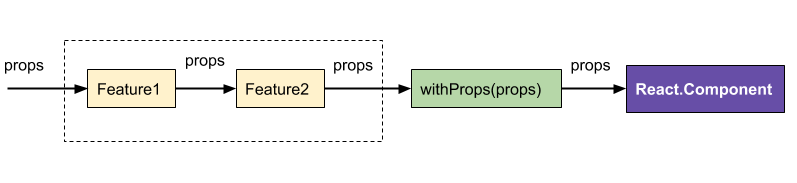
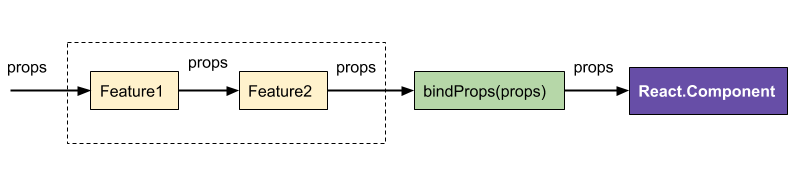
update docs

diff --git a/docs/feature.md b/docs/feature.md
@@ -1,54 +1,59 @@
-### Little theory. What is component feature?
+## Little theory. What is component feature?
 
 > It is an intentional distinguishing characteristic of a component.
 
-Component feature - is the new component's functionality. And in most cases it depends and provide new props.
+Component feature - is the new component functionality. And in most cases it depends and provide new props.
 For example *HighliteFlags* feature for *<Button/>* component - add *success*, *alert* and *warning* bool props and depending on them provide specific styles.
+
+### The problem
+
 Usually all such features are developed and stored inside component and this is the reason for next problems:
 
-* Component's code become more and more complex. Even simple component can grow into complex component with large collection of available props.
+* Component code become more and more complex. Even simple component can grow into complex with large collection of available props.
 * Hard to develop new features and remove old or not used. To remove feature developer should find and remove large number of lines and then make sure that all other features work correctly.
-* Hard to find bugs and fix them. Sometimes there are hotfixes that usually push component become legacy.
-* A lot of *copy-paste* code. Especially a lot of duplication across component's *propTypes*.
-* Hard to share code. Only whole component could be shared with all implemented features. But sometimes needs to share only specific feature between applications or even between components.
+* Hard to find bugs and fix them. Sometimes there are hotfixes that usually push component to become legacy.
+* A lot of *copy-paste* code. Especially a lot of duplication across components *propTypes*.
+* Hard to share code. Only whole component could be shared with all implemented features. But sometimes needs to share only specific feature between components or even between applications.
 
-### Component lifecycle in the images
+#### Component life in the images
 
-* Component is simple and it's code is beautiful, simple and readable
+* Component is simple and it code is beautiful, simple and readable.
 
 <img src="https://raw.githubusercontent.com/tuchk4/forgekit/release/2.0/docs/images/component.png">
 
-* Developing new component's features
+* Developing new component features. Developing at this stage is like breathe the crystal clear air. Component is still virgin.
 
 <img src="https://raw.githubusercontent.com/tuchk4/forgekit/release/2.0/docs/images/component-with-features.png">
 
-* Component became complex and it's code is much harder and uglier than was before
+* Component became complex and it code is much harder and uglier than was before.
 
 <img src="https://raw.githubusercontent.com/tuchk4/forgekit/release/2.0/docs/images/component-with-added-features.png">
 
-* DEATH - bugs, legacy code, spaghetti :(
+* DEATH - bugs, legacy code, spaghetti :( Components look like virus or infection.
 
 <img src="https://raw.githubusercontent.com/tuchk4/forgekit/release/2.0/docs/images/component-became-complex.png">
 
-### Develop features separately
+### Solution: develop features separately
 
-Forgekit suggest to develop and store features separately from component. There are a lof of advantages:
+**Very need to rename *"Feature"* term at Forgekit context into more simple name that will not confuse.** If you have some ideas - please describe them at [new issue](https://github.com/tuchk4/forgekit/issues/new).
 
-* Responsibility. Each feature stored separated file (or module if speak in CommonJS context) and there is code that implements only specific functionality and provide props that are needed only for its functionality.
-* Sharable. Features could be shared between components or applications.
+Forgekit suggest to develop and store features separately from components. There are a lot of advantages:
+
+* Responsibility. Each feature stored at separated file (or module if speak in CommonJS context) and there is code that implements only specific functionality and provide its own *propsTypes*.
+* Sharable. Features could be shared between components or applications. And don't even depends on components library. It could work above it.
 * Tests. Easy to write tests because Feature is a pure function.
-* Refactoring. It is more simpler to remove feature's import than find and remove large number of related lines of code
+* Refactoring. It is more simpler to remove feature import than find and remove large number of related lines of code.
 * Refactoring. Old feature could be swapped with new features.
-* Optimization. Use only needed features.
-* Feature customization. Each feature could customized separately. This is much better that customize whole component.
+* Optimization. Use only needed features. Not used features will not be in the build.
+* Feature customization. Each feature could be customized separately. This is much better that customize whole component.
 
 
-### High-level and Low-level props
+### High-level and low-level props
 
 In most cases feature depends and provide new props.
 Props could be splitted into **low-level** and **high-level** props.
 
-From React documentation - [DOM Elements](https://facebook.github.io/react/docs/dom-elements.html):
+From React [DOM Elements](https://facebook.github.io/react/docs/dom-elements.html) documentation:
 
 > React implements a browser-independent DOM system for performance and cross-browser compatibility. We took the opportunity to clean up a few rough edges in browser DOM implementations.
 In React, all DOM properties and attributes (including event handlers) should be camelCased. For example, the HTML attribute tabindex corresponds to the attribute tabIndex in React. The exception is aria-* and data-* attributes, which should be lowercased.
@@ -80,7 +85,7 @@ Feature.defaultProps = {}
 
 ### Forgekit feature with lifecycle methods
 
-Forgekit feature could be defined as object with two attributes:
+Forgekit feature also could be defined as object with two attributes:
 
 * *props* - pure function to map props.
 * *hoc* - higher order component. Takes Component as argument and return higher order component.

diff --git a/docs/theme.md b/docs/theme.md
@@ -1,6 +1,6 @@
 ## Theme
 
-Allows to define theme structure for feature or component. Then it used for *classNames* or *style* calculating.
+Allows to define theme structure for feature or component. It is used for *classNames* or *style* calculating.
 Support custom themes provided by global CSS or inline styles and other libraries:
 
 * [CSS Modules](https://github.com/css-modules/css-modules)
@@ -13,23 +13,24 @@ Support custom themes provided by global CSS or inline styles and other librarie
 
 Simple styling manager for the React components.
 
-Theme structure is defined at *propTypes* and with default values defined at *defaultProps*.
+Theme structure is defined at *propTypes* and default values defined at *defaultProps*.
 So *theme* is the component prop.
 
-```theme
+```js
 <Component theme={theme} />
 ```
 
-**Why theme is important for feature?**
+**Why theme is important for features?**
 
-A lot of features usually provides some new UI elements for component. So - they should/may be customized.
+A lot of features usually provides new UI elements for component. So - they should/may be customized.
 
 ## Forgekit theme api
 
 Theme structure should be defined at the *propTypes*.
+
 Default theme values should be defined at *defaultProps*.
 
-All defined themes will be merged in the ForgedComponent.
+All defined themes are merged in the ForgedComponent.
 Each feature or component will receive only defined theme structure.
 
 ```js
@@ -56,13 +57,11 @@ expect(ForgedComponent.propTypes.theme).toEqual({
 });
 ```
 
-**What is the ThemeProp?**
+### What is the ThemeProp?
 
-It is same as *PropTypes.shape* but there is the static attribute that contains all defined attributes. Forgekit needs it for theme merging.
-*PropTypes.shape* cannot be used because it is a bound function and there are no access to defined shape attributes.
+*ThemeProp* is same as *PropTypes.shape* but with attribute that contains all defined keys. Forgekit needs it for theme merging.
 
-I have created  [feature request at React repository](https://github.com/facebook/react/issues/8310) to fill name attribute for all *propTypes*.
-If it is approved - *ThemeProp* could be removed.
+*PropTypes.shape* cannot be used directly because it is a bound function and there are no access to defined shape attributes.
 
 ```js
 const ThemeProp = theme => {
@@ -73,11 +72,14 @@ const ThemeProp = theme => {
 }
 ```
 
-## className Example
+I have created  [React feature request](https://github.com/facebook/react/issues/8310) to fill name attribute for all *propTypes*.
+If it is approved - *ThemeProp* will be removed.
+
+## Theme className example
 
 For better experience suggest to use [classnames](https://www.npmjs.com/package/classnames) library.
 
-* Define component's theme structure
+* Define component theme structure
 
 ```js
 import { ThemeProp } from 'forgekit';
@@ -106,7 +108,7 @@ Button.defaultProps = {
 };
 ```
 
-* Define feature's theme structure
+* Define feature theme structure
 
 ```js
 import styles from './alert.css';
@@ -147,7 +149,7 @@ const MaterialButton = fogrkit(Alert)(Button, 'MaterialButton', {
 });
 ```
 
-* Forge and use theme prop
+* Or Forge and use theme prop
 
 ```js
 import materialButtonStyles from './material-button.css';
@@ -163,7 +165,7 @@ const theme = {
 ```
 
 
-## styles Example
+## Theme styles example
 
 It is same as example with classNames expect:
 

diff --git a/docs/api.md b/docs/api.md
@@ -1,34 +1,40 @@
 ## Forgekit api
 
-<a href="./feature.md">Features and feature api documentation</a>
+In general it looks like props middleware.
+But each feature also can implement a higher order component (usually for lifecycle methods).
+
+**What is Feature**?
+
+More details about features in <a href="./feature.md">features api documentation</a>.
 
 <img src="https://raw.githubusercontent.com/tuchk4/forgekit/release/2.0/docs/images/props-as-middleware.png">
 
 ```js
+import forgekit from 'forgekit';
+
 forge(...features)(Component, displayName, bindProps)
 ```
 
 * **features** *Array[Function]* - Used features
 * (required) **Component** *React.Component* - Original component
-* **displayName** *String* - New component's display name. Works correctly with [Chrome developers tools](https://chrome.google.com/webstore/detail/react-developer-tools/fmkadmapgofadopljbjfkapdkoienihi?hl=en)
-* **bindProps** *Object | Function* - Props that are merged with the owner props. Instead of a function, you can also pass a props object directly. In this form props take precedence over props from the owner.
+* **displayName** *String* - New component display name. Works correctly with [Chrome developers tools](https://chrome.google.com/webstore/detail/react-developer-tools/fmkadmapgofadopljbjfkapdkoienihi?hl=en)
+* **bindProps** *Object | Function* - Props that are merged with the owner props.
+
+**It also can be read as**
 
 ```js
-const ForgedComponent = forge(feature1, feature2, feature3)(Component)
-```
+const ForgedComponent = forge(feature1, feature2, feature3)(Component);
 
-Same as
-
-```js
-const ForgedComponent = (props) => {
+//Same as
+const ForgedComponent = props => {
   const newProps = feature3(featur2(feature1(props)));
   return <Component {...newProps}/>;
 }
 ```
 
-### bindProps example
+### bindProps as object
 
-If **bindProps** is object:
+*bindProps* as *object* - take precedence over props from the owner.
 
 ```js
 const features = forge(...features);
@@ -38,17 +44,27 @@ export const RippleButton = features(Component, 'RippleButton', {
 });
 ```
 
-If **bindProps** is Function. It is useful when need to define props that depends on another props:
+### bindProps as function
+
+*bindProps* as *function* is useful when need to define props that depends on another props.
+
+<img src="https://raw.githubusercontent.com/tuchk4/forgekit/release/2.0/docs/images/props-as-middleware-with-props.png">
 
 ```js
-export default forge(...features)(Component, 'Button', ({
+export default forge(...features)(Component, 'AwesomeComponent', ({
   alert,
   ...props
 }) => ({
     ...props,
-    icon: alert ? 'error' : '' // Add "error" icon if "alert" prop exists
+    // Add "error" icon if "alert" prop exists
+    icon: alert ? 'error' : ''
   })
 );
 ```
 
-It is easier and much more readable to bind some props than create higher order components for such features or add such simple logic inside component.
+It is easier and much more readable to bind some props in this way than create higher order components for such features or add such simple logic inside component.
+
+
+## Feedback wanted
+
+Forgekit is still in the early stages and even still be an experimental project. Your are welcome to submit issue or PR if you have suggestions! Or write me on twitter [@tuchk4](https://twitter.com/tuchk4).

diff --git a/docs/forgekit-vs-recompose.md b/docs/forgekit-vs-recompose.md
@@ -1,6 +1,6 @@
-# Forgekit vs Recompose
+## Forgekit vs Recompose
 
-As the developer of the Forgekit I am really not happy to develop one more library (one more npm package).
+As the developer of the Forgekit I am not happy to develop one more library (one more npm package).
 At least because most forgekit features could be implemented with:
 
 * [recompose/mapProps](https://github.com/acdlite/recompose/blob/master/docs/API.md#mapprops)
@@ -8,13 +8,13 @@ At least because most forgekit features could be implemented with:
 * [recompose/setDisplayName](https://github.com/acdlite/recompose/blob/master/docs/API.md#setdisplayname)
 * [recompose/lifecycle](https://github.com/acdlite/recompose/blob/master/docs/API.md#lifecycle)
 
-*But* there some critical differences:
+But there some critical differences:
 
 * Forgekit merge propTypes and defaultProps
-* Forgekit provide tools for component theming
+* Forgekit provide tools for component and feature theming
 * From my point of view - Forgekit provides more readable *displayName*
-*
 
+### Example of same feature with Forgekit and Recompose
 
 * Forgekit:
 
@@ -34,7 +34,7 @@ const AlertIcon = ({
 const ForgedComponent = forge(AlertIcon)(Component);
 ```
 
-* Recompose mapProps:
+* Recompose:
 
 ```js
 import mapProps from 'recompose/mapProps';
@@ -57,9 +57,9 @@ The differences:
 
 > NOTE: I am not sure about some statements about recompose
 
-* If manipulate only with existing component's props - there are no differences expect that mapProps returns higher order component. Forgekit feature provide function that is just executed before component's render.
+* If manipulate only with existing component props - there are no differences expect that mapProps returns higher order component. Forgekit feature provide function that is just executed before component render.
 
-* If see such functions as new component's feature - Forgekit merge all propTypes and defaultProps from all features and origin component.
+* If see such functions as new component feature - Forgekit merge all propTypes and defaultProps from all features and origin component.
 Recompose does not manipulate with propTypes and defaultProps.
 
 * From my point of view - Forgekit provides more readable displayName.

diff --git a/README.md b/README.md
@@ -2,6 +2,12 @@
 
 ![Forgekit travis build](https://api.travis-ci.org/tuchk4/forgekit.svg?branch=master)
 
+> Share featres betweeen comopnent libraries not depenidng on comp librarues
+
+> Featurism
+
+> Declarative style
+
 **This project is still experimental, so feedback from component authors would be greatly appreciated!**
 
 ## Motivation
@@ -425,6 +431,8 @@ Create Forgekit react storybook plugin:
 
 ## Feedback wanted
 
-Forgekit is still in the early stages and even still be an experimental project. Your are welcome to submit issue or PR if you have suggestions! Or write me on [Twitter](https://twitter.com/tuchk4) (Valerii Sorokobatko).
+## Feedback wanted
+
+Forgekit is still in the early stages and even still be an experimental project. Your are welcome to submit issue or PR if you have suggestions! Or write me on twitter [@tuchk4](https://twitter.com/tuchk4).
 
 :tada:
